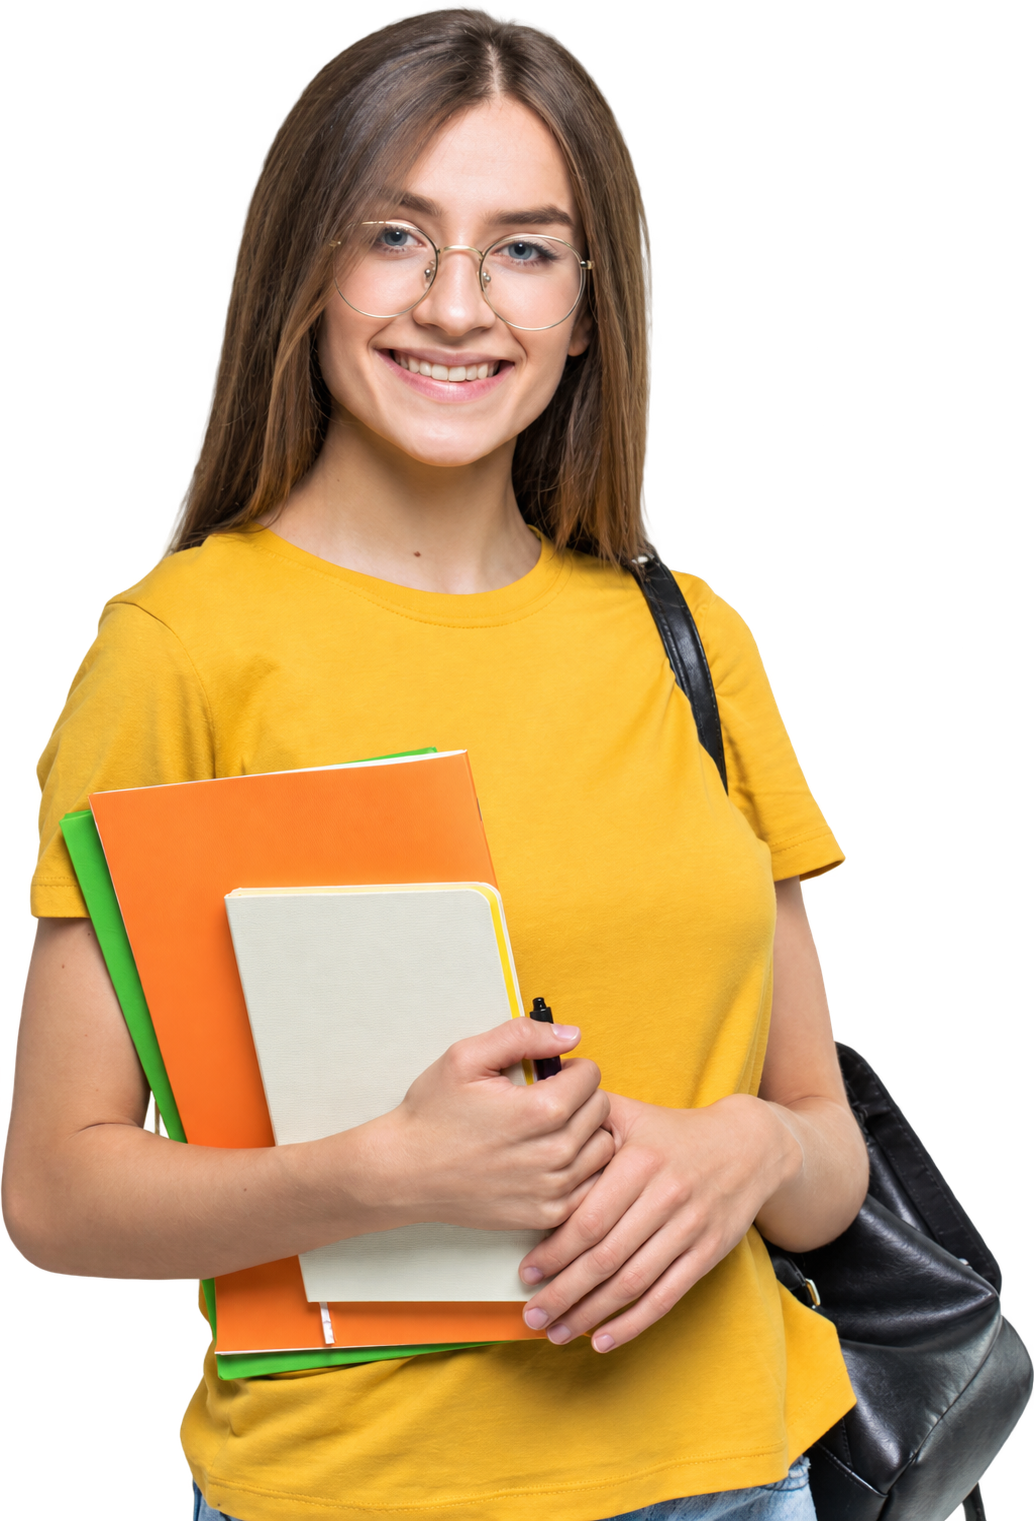
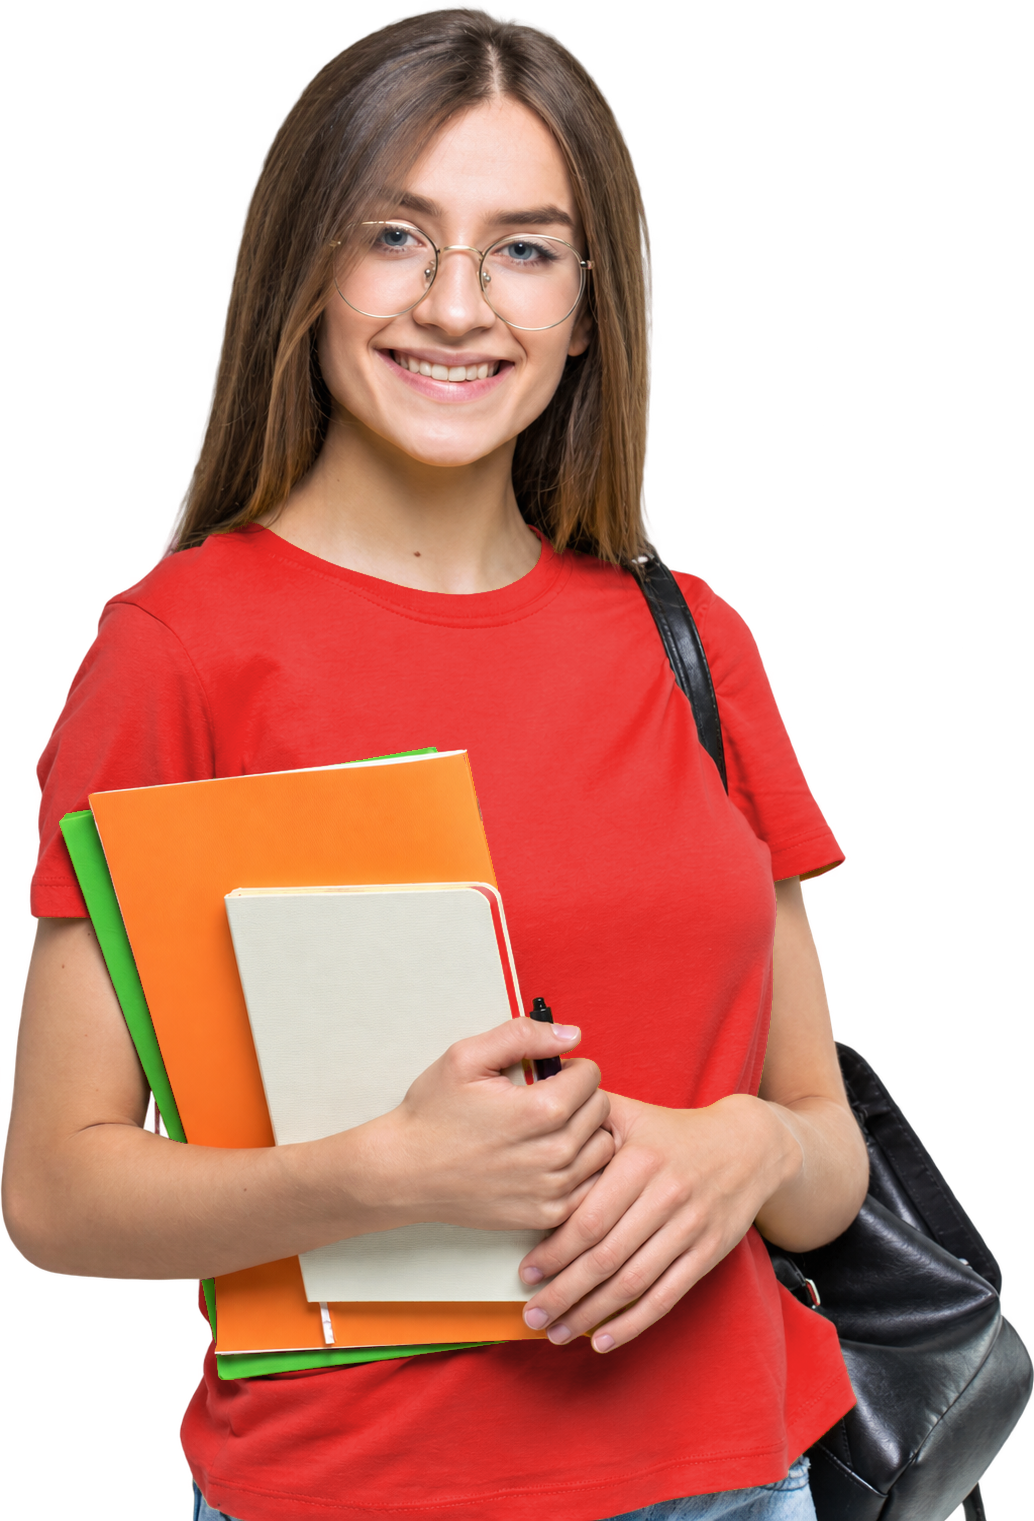
Make hero headline red and recolor student shirt to red

Changed region(s): [[0.0309, 0.3399, 0.8356, 0.7416], [0.1547, 0.8034, 0.8356, 1.0]]

diff --git a/styles.css b/styles.css
@@ -40,7 +40,7 @@ button { font: inherit; }
 .hero-copy { position: relative; z-index: 3; max-width: 570px; padding: 26px 0 14px; }
 .eyebrow { display: inline-flex; align-items: center; gap: 8px; color: var(--red); font-size: 10px; font-weight: 800; letter-spacing: .14em; line-height: 1.4; }
 .eyebrow-dot { width: 7px; height: 7px; display: inline-block; border-radius: 50%; background: var(--red); box-shadow: 0 0 0 4px #e5413d36; }
-.hero h1 { margin: 22px 0 14px; max-width: 570px; font: 700 clamp(42px, 5.2vw, 68px)/1.06 var(--font-display); letter-spacing: -.04em; }
+.hero h1 { margin: 22px 0 14px; max-width: 570px; color: var(--red);font: 700 clamp(42px, 5.2vw, 68px)/1.06 var(--font-display); letter-spacing: -.04em; }
 .hero h1 span, .section-heading h2 span, .path-copy h2 span { color: var(--red); }
 .hero-copy > p { max-width: 480px; margin: 0; color: #6a6c71; font-size: 14px; line-height: 1.8; }
 .hero-actions { margin-top: 25px; display: flex; align-items: center; flex-wrap: wrap; gap: 18px; }
